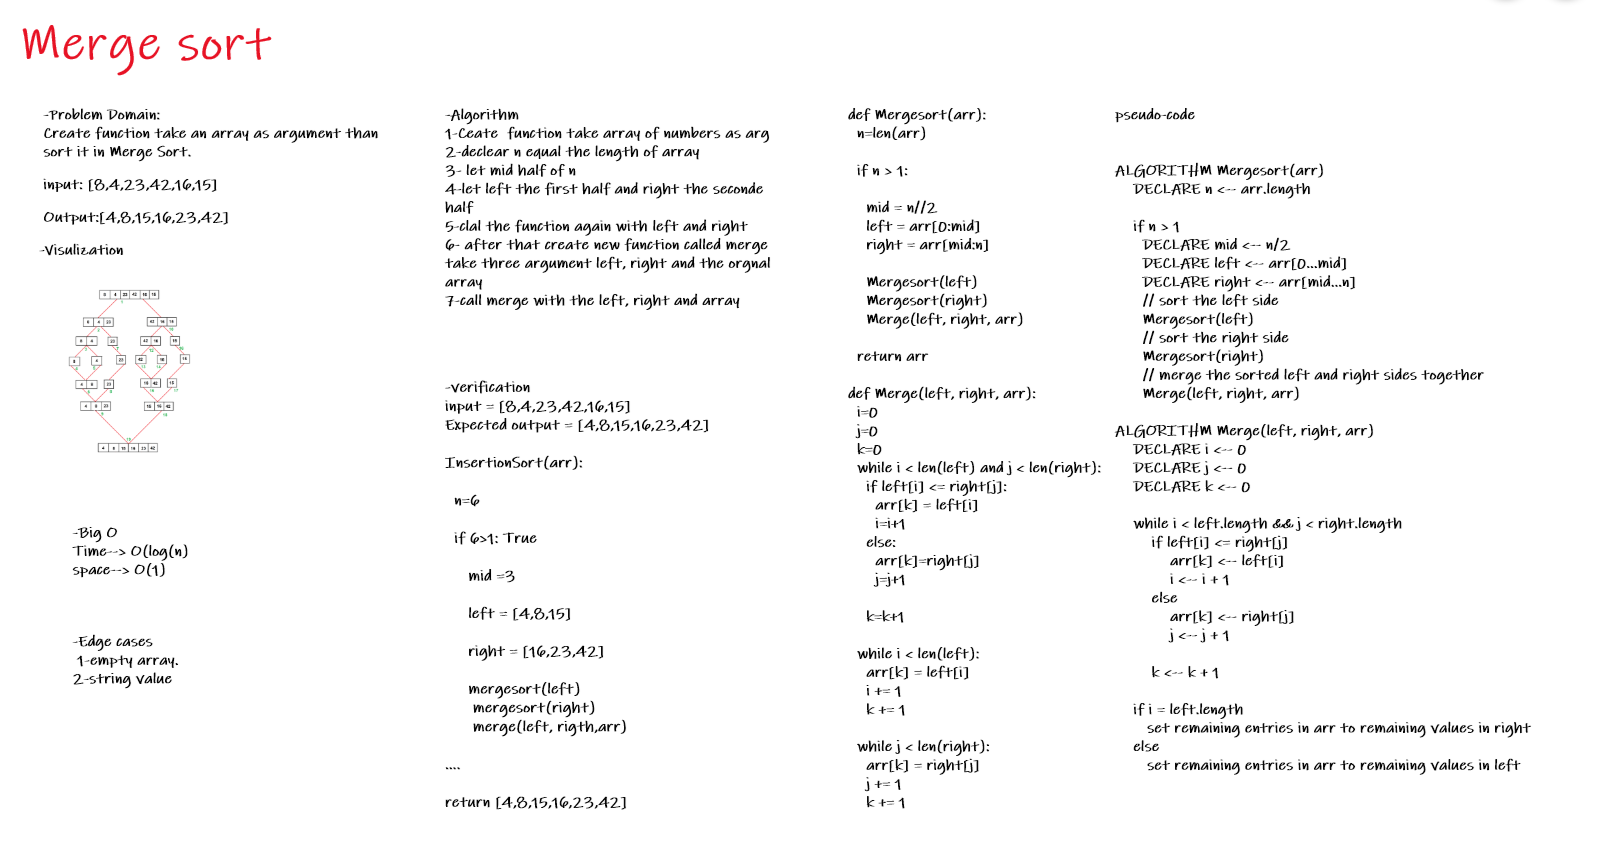
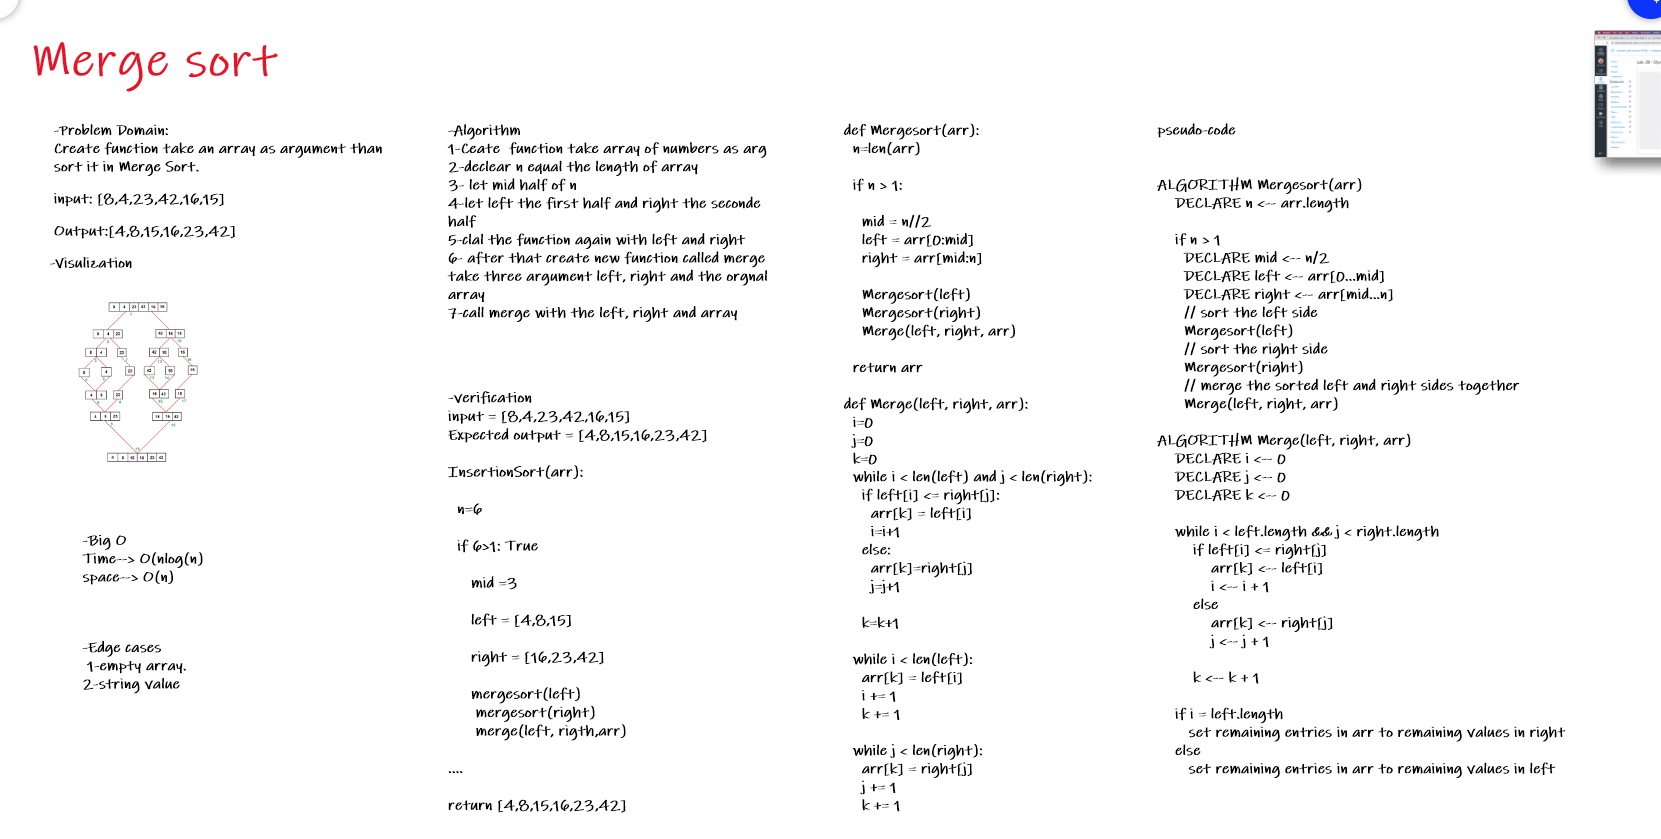
edit the big o

diff --git a/data_structures_and_algorithms_401_python/Challenges/merge_sort/blog.md b/data_structures_and_algorithms_401_python/Challenges/merge_sort/blog.md
@@ -52,10 +52,8 @@ Sample Array: [8,4,23,42,16,15]
 
 ## Efficency
 
-Time: O(log(n))
+Time: O(nlog(n))
 
-the choice of the next element on which to perform some action is one of several possibilities, and only one will need to be chosen.
+Space: O(n)
 
-Space: O(1)
-
-No additional space is being created. This array is being sorted in place keeping the space at constant O(1).
+Overall time complexity of Merge sort is O(nLogn). It is more efficient as it is in worst case also the runtime is O(nlogn) The space complexity of Merge sort is O(n). This means that this algorithm takes a lot of space and may slower down operations for the last data sets

diff --git a/data_structures_and_algorithms_401_python/Challenges/merge_sort/README.md b/data_structures_and_algorithms_401_python/Challenges/merge_sort/README.md
@@ -15,8 +15,8 @@ Create function take an array as argument than sort it in Merge Sort.
 7. call merge with the left, right and array
 
 ### Big O :
-* Time--> O(log(n))
-* space--> O(1)
+* Time--> O(nlog(n))
+* space--> O(n)
 ## Solution
 ```
 input = [8,4,23,42,16,15]
